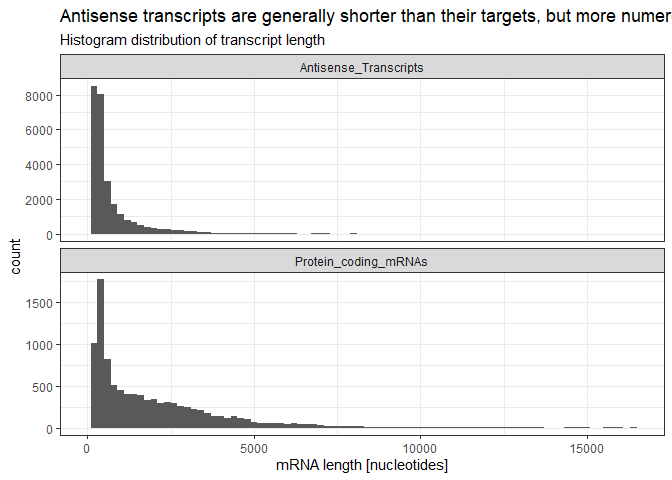
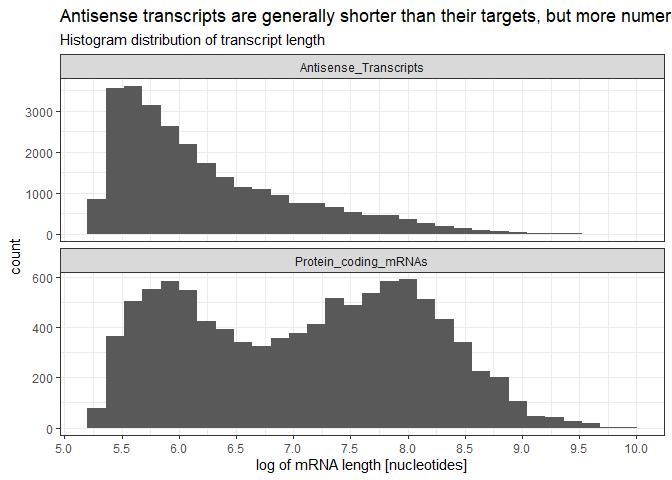
log transformed transcript length

diff --git a/SomeStatistics.md b/SomeStatistics.md
@@ -11,12 +11,11 @@ code for a detectable peptide. Afterwards, to have an idea of
 annotation, we use TRinotate that aligns with blastn and tblastn against
 the uniprot database to find putative orthologs. There is also a small
 but significant population of transcripts that have a significant match
-at the RNA level but do not have a significant tblastn alignment (mostly
-because transdecoder could not find the corresponding ORF). We assume
-for now that these are either artifactual or non-functional isoforms and
-are marked as *“nonsense”*. Later, if a gene has at least one nonsense
-transcript, and no transcripts with coding potential, we will classify
-this gene as a pseudogene.
+at the RNA level but for which transdecoder could not find a long enough
+ORF. We assume for now that these are either artifactual or
+non-functional isoforms and are marked as *“nonsense”*. Later, if a gene
+has at least one nonsense transcript, and no transcripts with coding
+potential, we will classify this gene as a pseudogene.
 
 ![](SomeStatistics_files/figure-gfm/Coding%20and%20non%20coding%20transcripts-1.png)<!-- -->
 
@@ -59,11 +58,60 @@ wait for the gene-level integration before making this call.
 
 First, because of the one-to-many relationship between transcripts and
 peptides, we made a further classification of transcripts according to
-the peptides they produce.
+the peptides they produce. A transcript can code for many peptides, but
+we classify a transcript as *Swissprot* annotated if at least one of the
+peptides has a valid top ortholog from the SWissprot database. Next, a
+transcript is annotated as either Truncated, Unnanotated or Wrong strand
+if any of the peptides they produce belong to one of these categories
+and none of the peptides they produce belong to the others. Transcripts
+that produce a combination of these are not shown.
+
+Next, we group transcripts by their Trinity assembly “gene” and classify
+them as: - “Swissprot” genes if **any** of the transcripts produce a
+peptide with a Swissprot ortholog. - We classified them as *Unnanotated*
+if **all** of the transcripts code for an unnanotated protein (this
+might be an underestimation). - We classify a transcript as *Non coding*
+if **all** of their transcripts are non coding - We classify a
+transcript as pseudogene if **all** of their transcripts belong to
+either non coding, truncated or
 
 ![](SomeStatistics_files/figure-gfm/gene%20level-1.png)<!-- -->
 
 ## Length distribution of transcripts
+
+We will now go into length distribution of transcripts. As stated
+before, there are ~464,000 transcripts. By looking at a summary, we
+already see that the distribution is heavily right skewed. The minimum
+size is 169, and the maximum is 30kb (Spoiler: this is the Titin gene,
+the longest known protein in humans). Still, the third quartile is 687.
+That is, 75% of transcripts are shorter than the mean.
+
+``` r
+summary(longitudes$total_length)
+```
+
+    ##    Min. 1st Qu.  Median    Mean 3rd Qu.    Max. 
+    ##   169.0   270.0   385.0   696.2   687.0 30666.0
+
+To visualize this distribution, we log transform the data (exp = e)
+
+![](SomeStatistics_files/figure-gfm/histogram%20whole%20transcriptome-1.png)<!-- -->
+
+Remember that our first classification was, transcript-wise by their
+coding potential, differentiating the peptide producing from the
+non-coding, and a third smaller group of transcripts that have a blastx
+hit but do not contain an ORF long enough to match by tblastn. There is
+a very clear difference in the length distribution of transcripts
+producing a peptide in transdecoder: almost all of them are longer than
+the transcriptome median (log(389) = 5.95). There is also a sort of
+bimodal distribution in the log transformed length data for the ORF
+containing transcripts that could be explored later. Overall, we can
+conclude that a good portion of the non-coding transcriptome is shorter
+than 400 nucleotides.
+
+![](SomeStatistics_files/figure-gfm/log%20length%20by%20coding%20potential-1.png)<!-- -->
+
+## Antisense transcripts
 
 These sequences were then aligned back to the whole transcriptome with
 blastn. The resulting alignments were filtered to be plus/minus
@@ -112,7 +160,7 @@ ampirr %>% transmute(qseqid, sseqid, Protein_coding_mRNAs = total_length.qer, An
   #This operation is to chose the transcript id from the two seqid columns
   transmute(transcript_id = if_else(mRNA_type == "Protein_coding_mRNAs", qseqid, sseqid), mRNA_type, mRNA_length) %>% unique() %>% 
   #now you can plot
-  ggplot(aes(x = mRNA_length)) + geom_histogram(binwidth = 200) + scale_x_continuous(n.breaks = 10) + xlim(c(0,16500)) + theme_bw() + facet_wrap(~mRNA_type, nrow = 2, scales = "free_y") + labs(x = "mRNA length [nucleotides]", title = "Antisense transcripts are generally shorter than their targets, but more numerous", subtitle = "Histogram distribution of transcript length")
+  ggplot(aes(x = log(mRNA_length))) + geom_histogram() + scale_x_continuous(n.breaks = 10) + theme_bw() + facet_wrap(~mRNA_type, nrow = 2, scales = "free_y") + labs(x = "log of mRNA length [nucleotides]", title = "Antisense transcripts are generally shorter than their targets, but more numerous", subtitle = "Histogram distribution of transcript length")
 ```
 
 ![](SomeStatistics_files/figure-gfm/Grafica%20de%20longitud-1.png)<!-- -->
